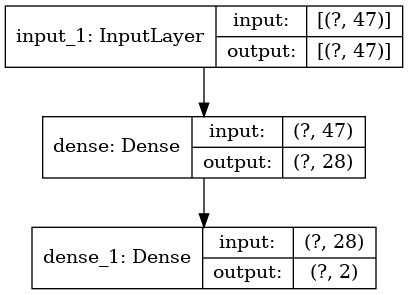
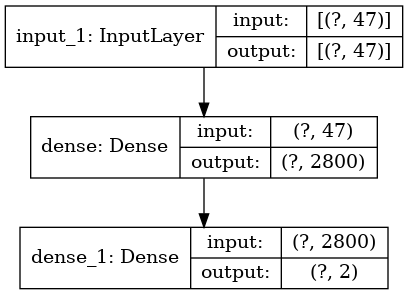
before embeddings

Changed region(s): [[0.0294, 0.7627, 0.9706, 1.0], [0.0588, 0.3966, 0.9412, 0.6102]]

diff --git a/train.py b/train.py
@@ -41,11 +41,14 @@ def main(args):
     # get the data
     train_data = helpers.load_data(args.numpy_path, 'train_set.npy')
     valid_data = helpers.load_data(args.numpy_path, 'valid_set.npy')
-    test_data  = helpers.load_data(args.numpy_path, 'test_set.npy')
+    test_data = helpers.load_data(args.numpy_path, 'test_set.npy')
 
     # convert the data
     train_dataset, train_shape = converter.convert_numpy_to_one_input_dataset(
         train_data, batchsize=args.batchsize, shuffle=100, shape=True)
+    valid_dataset = converter.convert_numpy_to_one_input_dataset(
+        valid_data, batchsize=args.batchsize, shuffle=100)
+
 
     # Loading the model
     model = modelprovider.build_one_input_model(train_shape)
@@ -54,7 +57,7 @@ def main(args):
 
     # compiling the model
     lossfn = loss.crps_cost_function
-    opt = Adam(lr=0.007, decay=1e-3 / 200)
+    opt = Adam(lr=0.1, decay=1 / 200)
     model.compile(loss=lossfn, optimizer=opt)
 
     # Load model if exits
@@ -76,10 +79,10 @@ def main(args):
         epochs=args.epochs,
         batch_size=args.batchsize,
         verbose=1,
+        validation_data=valid_dataset,
+        validation_steps=20,
         callbacks=[tensorboard_callback, cp_callback],
-    ) 
-    #   validation_data=valid_dataset,
-
+    )
 
     print('[INFO] Finished training')
     end = datetime.now()
@@ -97,6 +100,7 @@ def main(args):
         pred = converter.denormalize(prediction[0], mean,  std)
         #print([prediction, pred, crps.norm(item[2][:1], prediction[0])])
         print([label, pred, pred-label])
+
 
 if __name__ == "__main__":
     helpers.mkdir_not_exists(os.path.join(args.logdir, args.name))

diff --git a/emb_test.py b/emb_test.py
@@ -1,0 +1,48 @@
+import argparse
+import json
+import os
+
+import numpy as np
+import tensorflow as tf
+from tensorflow.keras import utils
+from tensorflow.keras.layers import (Activation, Concatenate, Dense, Flatten,
+                                     Input, InputLayer, Embedding)
+from tensorflow.keras.models import Model, Sequential
+from tensorflow.keras.optimizers import SGD, Adam
+
+import dataset.converter as converter
+import dataset.helper.crps as crps
+import dataset.shape as shape
+import helper as helpers
+import model.build_model as modelprovider
+import model.loss_functions as loss
+
+
+def main():
+    label = []
+    input = []
+    while (i<=100):
+        label.append(np.random.rand(2))
+        input.append([np.random.rand(8), np.random.rand(11,49) ])
+        i+=1
+    
+    
+    model = build_model(8, )
+
+    model.fit(
+        
+    )
+
+def build_model(n_features , ):
+    features_in = Input(shape=(n_features,))
+
+    id_in = Input(shape=
+    emb = Embedding(12, emb_size)(id_in)
+    emb = Flatten()(emb)
+    x = Concatenate()([features_in, emb])
+    x = Dense(n_outputs, activation='linear', kernel_regularizer=reg)(x)
+    model = Model(inputs=[features_in, id_in], outputs=x)
+
+if __name__ == "__main__":
+    helpers.mkdir_not_exists(os.path.join(args.logdir, args.name))
+    main(args)

diff --git a/dataset/build_np_array.py b/dataset/build_np_array.py
@@ -75,7 +75,7 @@ def convert_to_model_data(set, mean, std):
         date = convert_date(set[0][i][0])
         country = convert_country(set[0][i][1])
         vector_data = (set[0][i][25:32]-mean[23:30])/std[23:30]
-        vector = np.array(np.append([date, country ], vector_data), dtype='float64')
+        vector = np.array(np.append([country, date ], vector_data), dtype='float64')
         #second element are the esamlple
         matrix_data = []
         for file in set:

diff --git a/model/build_model.py b/model/build_model.py
@@ -53,7 +53,7 @@ def build_one_input_model(shape):
 
     # first branch for the vector input
     inp = Input(shape=shape)
-    model = Dense(28, activation='linear')(inp)
+    model = Dense(2800, activation='linear')(inp)
     #model = Dense(32, activation='linear')(inp)
     #model = Dense(16, activation='linear')(model)
     #model = Dense( 8, activation='linear')(model)

diff --git a/PROTOCOL.md b/PROTOCOL.md
@@ -25,3 +25,19 @@
 - X_train = (X_train - X_train.mean()) / X_train.std()
 - https://github.com/waves2weather/W2W-ML-Workshop/blob/master/nb1_jupyter-pandas_solution.ipynb
 - https://github.com/slerch/ppnn/blob/master/nn_postprocessing/nn_src/utils.py
+
+
+## 21.07.2020
+- online Supplyment Table 3
+- CRPS des ENSAMPLE
+- Validierung set
+-- ungefähr 10% besser durchs Netz
+- PIT Plot CDF
+- Appedix A
+- Feature import
+- https://ams.silverchair-cdn.com/ams/content_public/journal/mwr/146/11/10.1175_mwr-d-18-0187.1/3/10_1175_mwr-d-18-0187_s1.pdf?Expires=1598287118&Signature=VM3LD-gSIrdWFDvO44DsXLuaWHPC6R1b1aPrj-pigbVkLceudPEiJ4tavqjRVyf1EXvd8oBFPyNUuZvJzIarG7mgfb4PlDf3bax7OD7TbzRbqZ~6Uv~kkHfbu2-CnkJjKTLnBfB-g~bdqet7sZplcogwzK12CGQPMzziYDKR7iqNziQmSrbVEYLpxkyTOASG4NVQFyqSwk~J6vX7EsdnqPB5gdzqwc3nYOw2Mi6UxhhFEkkNUmegAIEYbOQbs-XpziVzW7VlmSrxKnrmhNK-2Dvk6A7xqlDtvje1FU7KSSxMTyQELoRvfvpG-ZpoMiCRWlnw2l1JsH7AFQVU091SDA__&Key-Pair-Id=APKAIE5G5CRDK6RD3PGA
+
+
+## 21.09.2020 09:30 Präsentation
+- Englisch
+- 30 Minuten

diff --git a/README.md b/README.md
@@ -21,3 +21,5 @@ pip3 install tensorflow properscoring
 ## Usage
 - Change the Path variable in dataset/read_csv_files.py
 - For training a model use ```bash python3 train.py```
+
+
